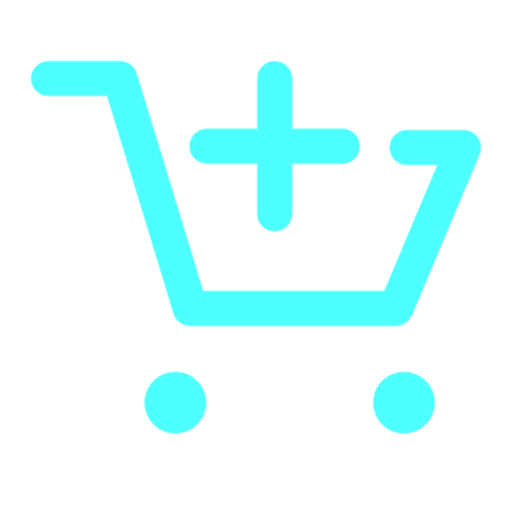
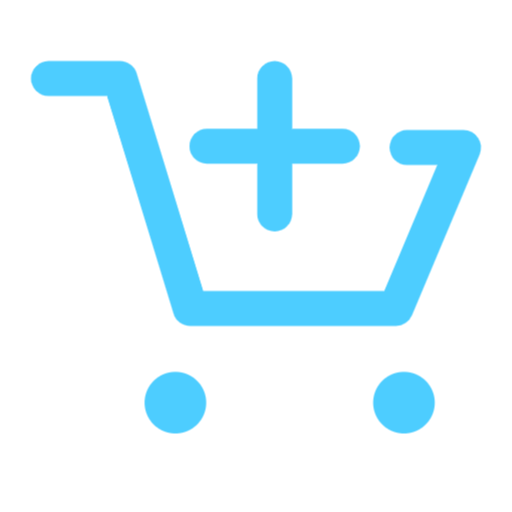
yes bows

diff --git a/week_3/workshop_3/styles.css b/week_3/workshop_3/styles.css
@@ -1,15 +1,13 @@
-*{
-    margin: 0;
-}
-body{
-    background-image: linear-gradient(to top ,#1B2838, #2A475E);
-}
+*{margin: 0;}
+
+body{background-image: linear-gradient(to top ,#1B2838, #2A475E);}
+
 h2{
-    color: #4DFFFF;
+    color: #66C0F4;
     margin: 2px;
 }
 h3{
-    color: #4DFFFF;
+    color: #66C0F4;
     margin: 2px;
 }
 p{
@@ -23,21 +21,17 @@ header{
     width: 100%;
     height: 30px;
 }
-header > div{
-    width: 50%;
-}
+header > div{width: 50%;}
 #nav_bar{
     display: flex;
     flex-direction: row;
     width: 100%;
     height: 60px;
 }
-#nav_bar > div{
-    width: 50%;
-}
-#nav_bar > div > a{
-    font-size: 30px;
-}
+
+#nav_bar > div{width: 50%;}
+#nav_bar > div > a{font-size: 30px;}
+
 #destinations{
     display: flex;
     justify-content: start;
@@ -56,10 +50,8 @@ header > div{
     width: 15%;
 }
 #filters > div{
-
     width: 75%;
     margin: 10px;
-
 }
 #products{
     display: flex;
@@ -73,9 +65,7 @@ header > div{
     flex-direction: row;
     background-color: #171A21;
 }
-#bottom > div{
-    width: 25%;
-}
+#bottom > div{width: 25%;}
 footer{
     background-color: #171A21;
     height: 30px;
@@ -100,9 +90,9 @@ footer{
     display: flex;
     flex-direction: row;
 }
-.info_row > div{
-    width: 50%;
-}
+
+.info_row > div{width: 50%;}
+
 .cart_img{
     width: 40px;
     height: 40px;
@@ -120,13 +110,11 @@ footer{
     font-size: 16px;
     border: none;
 }
-
 .dropdown {
     width: 100%;
     align-self: center;
     display: inline-block;
 }
-
 .dropdown-content {
     display: none;
     position: absolute;
@@ -135,7 +123,6 @@ footer{
     box-shadow: 0px 8px 16px 0px rgba(0,0,0,0.2);
     z-index: 1;
 }
-
 .dropdown-content a {
     color: black;
     padding: 12px 16px;
@@ -159,9 +146,11 @@ a{
     flex-direction: row;
     justify-content: end;
 }
-a{
-    color: #f1f1f1;
-}
-li{
-    margin: 5px;
-}
+
+a{color: #f1f1f1;}
+
+li{margin: 5px;}
+
+a:link { text-decoration: none; }
+
+a:hover { color: #388DE7 }

diff --git a/week_3/workshop_3/index.html b/week_3/workshop_3/index.html
@@ -329,7 +329,9 @@
     <div><h3>Payment</h3>
         <p>Pay quick and safe</p></div>
     <div><h3>Delivery Costs</h3>
-        <p>None</p></div>
+        <p>If you are in Europe its free</p>
+        <p>When you are outside of Europe the cost depends <br>on the delivery service</p>
+    </div>
     <div>
         <h3>Service</h3>
         <ul>
@@ -351,7 +353,7 @@
 
 </div>
 <footer>
-    <p>Webstore by Joe Biden</p>
+    <p>Webstore by &copyJoe Biden</p>
 </footer>
 </body>
 </html>
